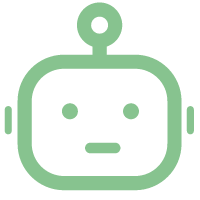
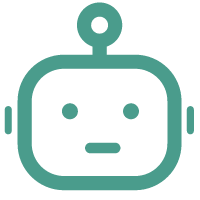
登录注册页layout布局实现

diff --git a/src/components/AuthLayout.vue b/src/components/AuthLayout.vue
@@ -1,0 +1,87 @@
+<template>
+  <div class="auth-layout">
+    <div class="left-section">
+      <div class="content">
+        <h2 class="title">心理AI助手</h2>
+        <p class="text">
+          每个深夜，每个焦虑的时刻，我们都在这里。不必独自承受，让心与心的链接温暖您的每一天
+        </p>
+        <div class="robot">
+          <el-image
+            style="width: 90px; height: 90px"
+            :src="iconUrl"
+            alt="心理AI助手"
+          />
+        </div>
+      </div>
+    </div>
+    <div class="right-section">
+      <router-view></router-view>
+    </div>
+  </div>
+</template>
+<script setup>
+const iconUrl = new URL("@/assets/images/robot-fill.png", import.meta.url).href;
+</script>
+<style scoped lang="scss">
+.auth-layout {
+  display: flex;
+  .left-section {
+    display: flex;
+    justify-content: center;
+    align-items: center;
+    flex: 1;
+    background: linear-gradient(
+        90deg,
+        rgb(74, 156, 140) 0%,
+        rgb(61, 138, 122) 100%
+      )
+      rgba(74, 156, 140, 0.95);
+    height: 100vh;
+    .content {
+      display: flex;
+      flex-direction: column;
+      justify-content: center;
+      align-items: center;
+      .title {
+        margin-bottom: 20px;
+        font-size: 40px;
+        font-weight: bold;
+        color: #fff;
+      }
+      .text {
+        margin-bottom: 20px;
+        width: 460px;
+        font-size: 20px;
+        color: #fff;
+        text-align: center;
+      }
+      .robot {
+        display: flex;
+        justify-content: center;
+        align-items: center;
+        width: 160px;
+        height: 160px;
+        border-radius: 50%;
+        border: 2px solid rgba(255, 255, 255, 0.2);
+        background: linear-gradient(
+          135deg,
+          rgba(255, 255, 255, 0.15) 0%,
+          rgba(255, 255, 255, 0.05) 100%
+        );
+        box-shadow:
+          0 15px 35px rgba(0, 0, 0, 0.1),
+          inset 0 1px 0 rgba(255, 255, 255, 0.3);
+      }
+    }
+  }
+  .right-section {
+    display: flex;
+    justify-content: center;
+    align-items: center;
+    flex: 1;
+    height: 100vh;
+    background-color: #fff;
+  }
+}
+</style>

diff --git a/src/router/index.js b/src/router/index.js
@@ -1,5 +1,6 @@
 import { createRouter, createWebHistory } from "vue-router";
 import BackendLayout from "@/components/BackendLayout.vue";
+import AuthLayout from "@/components/AuthLayout.vue";
 
 //路由配置
 const backendRoutes = [
@@ -37,6 +38,26 @@ const backendRoutes = [
         meta: {
           title: "情绪日志",
           icon: "ChatDotRound",
+        },
+      },
+    ],
+  },
+  {
+    path: "/auth",
+    component: AuthLayout,
+    children: [
+      {
+        path: "login",
+        component: () => import("@/views/login.vue"),
+        meta: {
+          title: "登录",
+        },
+      },
+      {
+        path: "register",
+        component: () => import("@/views/register.vue"),
+        meta: {
+          title: "注册",
         },
       },
     ],

diff --git a/src/views/login.vue b/src/views/login.vue
@@ -1,0 +1,5 @@
+<template>
+  <div>
+    <h1>登录</h1>
+  </div>
+</template>

diff --git a/src/views/register.vue b/src/views/register.vue
@@ -1,0 +1,5 @@
+<template>
+  <div>
+    <h1>注册</h1>
+  </div>
+</template>